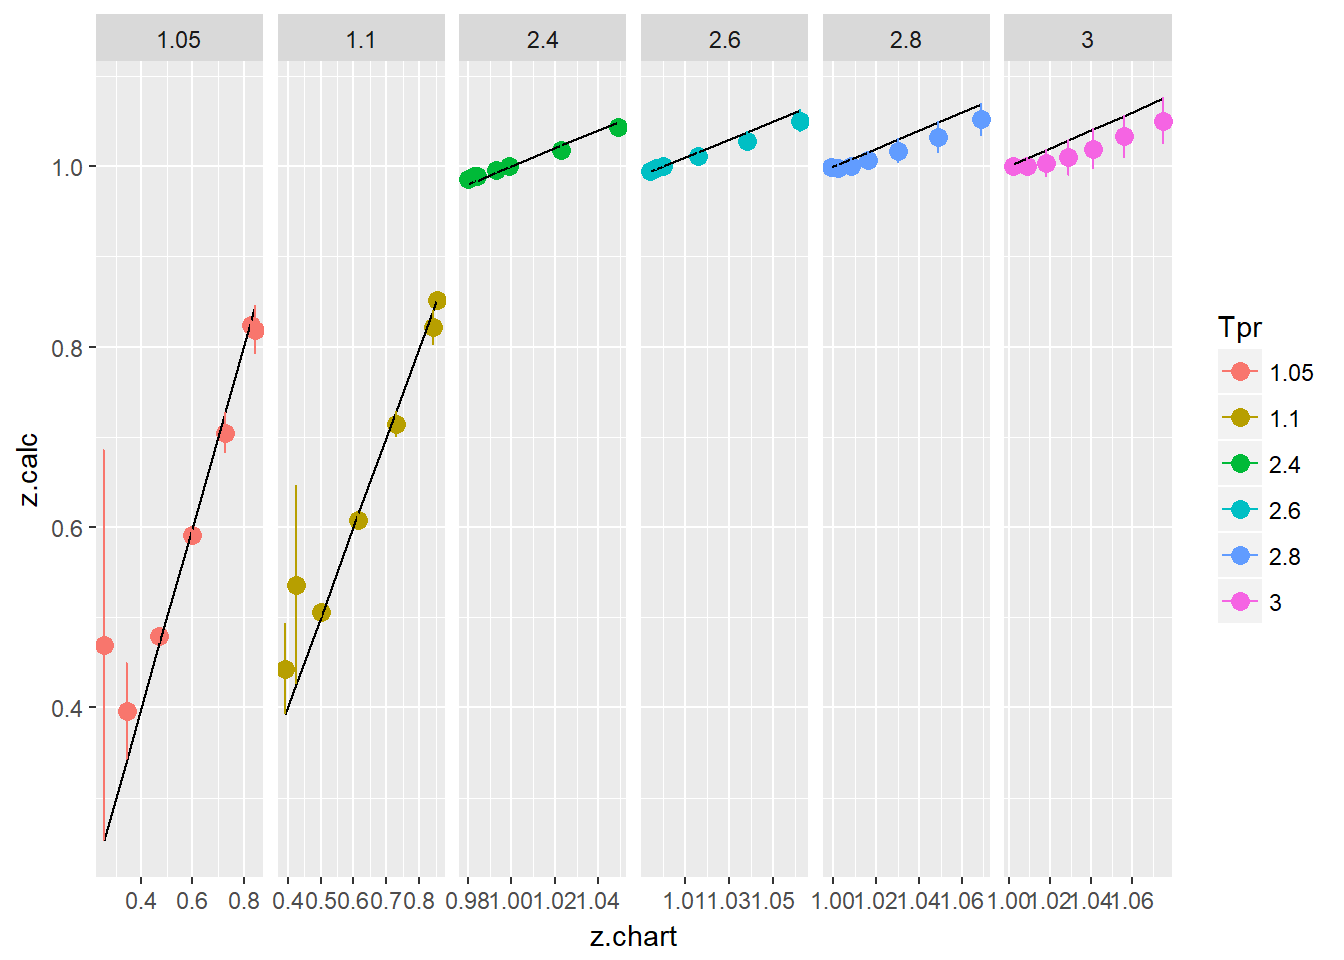
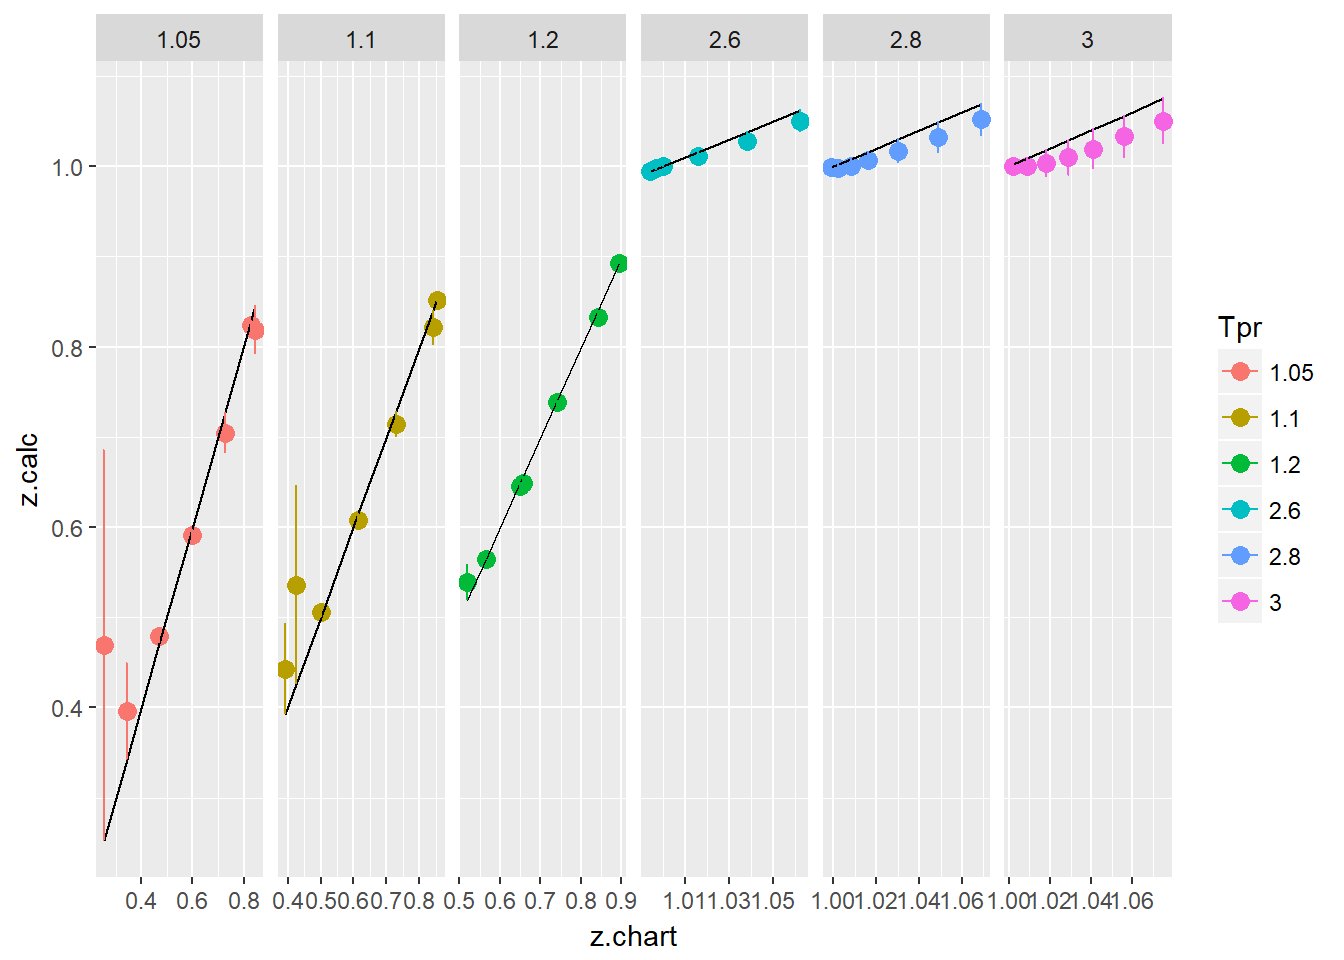
pkgdown site

diff --git a/docs/index.html b/docs/index.html
@@ -139,7 +139,7 @@
 <li><p>Dranchuk, Purvis and Robinson (DPR) <code>(Dranchuk, Purvis, Robinson, and others, 1973)</code></p></li>
 <li><p>A correlation by Shell Oil Company (SH) <code>(Kumar, 2004)</code>, <code>(Bahadori, 2016)</code>, <code>(de Almeida, VelÃ¡squez, and Barbieri, 2014)</code>, <code>(Al-Anazi, Pazuki, Nikookar, and Al-Anazi, 2011)</code>, <code>(Azizi N. Behbahani R., 2010)</code>, <code>(Mohamadi-Baghmolaei, Azin, Osfouri, Mohamadi-Baghmolaei, and Zarei, 2015)</code>. The Shell correlation was found cited in two books and several papers (including the equation and constants), but the original paper or authors could not be identified.</p></li>
 <li><p>A correlation developed with Artificial Neural Networks (Ann10) by Kamyab et al. <code>(Kamyab, Sampaio, Qanbari, and Eustes, 2010)</code></p></li>
-<li><p>An explicit correlation by <em>I. Papp</em> <code>(Papp, 1979)</code> mentioned in the comparative analysis paper by Gabor Takacs <code>(Takacs, 1989)</code>. Not available in English.</p></li>
+<li><p>An explicit correlation by <em>I. Papp</em> <code>(Papp, 1979)</code> mentioned in the comparative analysis paper by Gabor Takacs <code>(Takacs, 1989)</code>. Papp’s paper is not available in English.</p></li>
 </ul>
 </div>
 <div id="versions" class="section level2">
@@ -452,7 +452,7 @@ smry_tpr_ppr &lt;-<span class="st"> </span><span class="kw">summarise</span>(gro
 <p>[10] M. Mohamadi-Baghmolaei, R. Azin, S. Osfouri, et al. “Prediction of gas compressibility factor using intelligent models”. In: <em>Natural Gas Industry B</em> 2.4 (2015), pp. 283-294. DOI: 10.1016/j.ngib.2015.09.001. &lt;URL: <a href="http://doi.org/10.1016/j.ngib.2015.09.001" class="uri">http://doi.org/10.1016/j.ngib.2015.09.001</a>&gt;.</p>
 <p>[11] I. Papp. “Uj modszer foldgazok elteresi tenyezojenek szamitasara”. In: <em>Koolaj es Foldgaz</em> (Nov. 1979), pp. 345-47.</p>
 <p>[12] S. Rakap, S. Rakap, D. Evran, et al. “Comparative evaluation of the reliability and validity of three data extraction programs: UnGraph, GraphClick, and DigitizeIt”. In: <em>Computers in Human Behavior</em> 55 (2016), pp. 159-166. DOI: 10.1016/j.chb.2015.09.008. &lt;URL: <a href="http://doi.org/10.1016/j.chb.2015.09.008" class="uri">http://doi.org/10.1016/j.chb.2015.09.008</a>&gt;.</p>
-<p>[13] G. Takacs. “Comparing Methods for Calculating z Factor”. In: <em>Oil and Gas Journal</em> (May. 1989). DOI: NA. &lt;URL: <a href="https://www.researchgate.net/publication/236510717_Comparing_methods_for_calculating_Z-factor" class="uri">https://www.researchgate.net/publication/236510717_Comparing_methods_for_calculating_Z-factor</a>&gt;.</p>
+<p>[13] G. Takacs. “Comparing Methods for Calculating z Factor”. In: <em>Oil and Gas Journal</em> (May. 1989). DOI: Not Available. &lt;URL: <a href="https://www.researchgate.net/publication/236510717_Comparing_methods_for_calculating_Z-factor" class="uri">https://www.researchgate.net/publication/236510717_Comparing_methods_for_calculating_Z-factor</a>&gt;.</p>
 </div>
 </div>
 </div>

diff --git a/docs/articles/Papp.html b/docs/articles/Papp.html
@@ -113,7 +113,7 @@
     <div class="page-header toc-ignore">
       <h1>Papp correlation</h1>
             
-            <h4 class="date">2017-10-23</h4>
+            <h4 class="date">2017-10-24</h4>
           </div>
 
     
@@ -459,7 +459,7 @@ smry_tpr_ppr &lt;-<span class="st"> </span><span class="kw">summarise</span>(gro
 <div class="sourceCode"><pre class="sourceCode r"><code class="sourceCode r"><span class="kw">library</span>(dplyr)
 
 sk_corr_all <span class="op">%&gt;%</span>
-<span class="st">    </span><span class="kw">filter</span>(Tpr <span class="op">%in%</span><span class="st"> </span><span class="kw">c</span>(<span class="st">"1.05"</span>, <span class="st">"1.1"</span>, <span class="st">"2.4"</span>, <span class="st">"2.6"</span>, <span class="st">"2.8"</span>, <span class="st">"3"</span>)) <span class="op">%&gt;%</span>
+<span class="st">    </span><span class="kw">filter</span>(Tpr <span class="op">%in%</span><span class="st"> </span><span class="kw">c</span>(<span class="st">"1.05"</span>, <span class="st">"1.1"</span>, <span class="st">"1.2"</span>, <span class="st">"2.6"</span>, <span class="st">"2.8"</span>, <span class="st">"3"</span>)) <span class="op">%&gt;%</span>
 <span class="st">    </span><span class="kw">ggplot</span>(<span class="kw">aes</span>(<span class="dt">x =</span> z.chart, <span class="dt">y=</span>z.calc, <span class="dt">group =</span> Tpr, <span class="dt">color =</span> Tpr)) <span class="op">+</span>
 <span class="st">    </span><span class="kw">geom_point</span>(<span class="dt">size =</span> <span class="dv">3</span>) <span class="op">+</span>
 <span class="st">    </span><span class="kw">geom_line</span>(<span class="kw">aes</span>(<span class="dt">x =</span> z.chart, <span class="dt">y =</span> z.chart), <span class="dt">color =</span> <span class="st">"black"</span>) <span class="op">+</span>
@@ -496,7 +496,7 @@ sk_corr_all <span class="op">%&gt;%</span>
 <h2 class="hasAnchor">
 <a href="#references" class="anchor"></a>References</h2>
 <p>[1] I. Papp. “Uj modszer foldgazok elteresi tenyezojenek szamitasara”. In: <em>Koolaj es Foldgaz</em> (Nov. 1979), pp. 345-47.</p>
-<p>[2] G. Takacs. “Comparing Methods for Calculating z Factor”. In: <em>Oil and Gas Journal</em> (May. 1989). DOI: NA. &lt;URL: <a href="https://www.researchgate.net/publication/236510717_Comparing_methods_for_calculating_Z-factor" class="uri">https://www.researchgate.net/publication/236510717_Comparing_methods_for_calculating_Z-factor</a>&gt;.</p>
+<p>[2] G. Takacs. “Comparing Methods for Calculating z Factor”. In: <em>Oil and Gas Journal</em> (May. 1989). DOI: Not Available. &lt;URL: <a href="https://www.researchgate.net/publication/236510717_Comparing_methods_for_calculating_Z-factor" class="uri">https://www.researchgate.net/publication/236510717_Comparing_methods_for_calculating_Z-factor</a>&gt;.</p>
 </div>
 </div>
   </div>

diff --git a/docs/articles/Dranchuk-Purvis-Robinson.html b/docs/articles/Dranchuk-Purvis-Robinson.html
@@ -113,7 +113,7 @@
     <div class="page-header toc-ignore">
       <h1>Dranchuk-Purvis-Robinson correlation</h1>
             
-            <h4 class="date">2017-10-23</h4>
+            <h4 class="date">2017-10-24</h4>
           </div>
 
     
@@ -122,7 +122,7 @@
 <div id="why-dpr-is-different" class="section level2">
 <h2 class="hasAnchor">
 <a href="#why-dpr-is-different" class="anchor"></a>Why <code>DPR</code> is different</h2>
-<p>The <code>Dranchuk-Purvis-Robinson</code> correlation is different than the other correlations in the sense that the authors were looking at redrawing three of the isotherms of the original work by Standing-Katz: the curves at <code>Tpr=1.05</code>, <code>Tpr=1.1</code> and <code>Tpr=1.15</code>. The authors were expecting that later the corrections to be adopted with experimental data matching those two new curves. We haven’t found a paper confirming that yet. <span class="citation">(See Dranchuk et al. <a href="#ref-Dranchuk1973">1973</a>)</span>.</p>
+<p>The <code>Dranchuk-Purvis-Robinson</code> correlation is different than the other correlations in the sense that the authors were looking at redrawing three of the isotherms of the original work by Standing-Katz: the curves at <code>Tpr=1.05</code>, <code>Tpr=1.1</code> and <code>Tpr=1.15</code>. The authors were expecting that later the corrections to be adopted with experimental data matching those two new curves. We haven’t found a paper confirming that yet. <span class="citation">(See <span class="citeproc-not-found" data-reference-id="Dranchuk1973"><strong>???</strong></span>)</span>.</p>
 <p>Other than that, the <code>DPR</code> correlation behaves pretty well but not much better than the <code>DAK</code> correlation.</p>
 </div>
 <div id="get-z-at-selected-ppr-and-tpr" class="section level2">
@@ -509,14 +509,9 @@ sk_corr_all <span class="op">%&gt;%</span>
 # ... with 102 more rows, and 3 more variables: RSS &lt;dbl&gt;, MAE &lt;dbl&gt;,
 #   RMLSE &lt;dbl&gt;</code></pre>
 </div>
-<div id="references" class="section level2 unnumbered">
+<div id="references" class="section level2">
 <h2 class="hasAnchor">
 <a href="#references" class="anchor"></a>References</h2>
-<div id="refs" class="references">
-<div id="ref-Dranchuk1973">
-<p>Dranchuk, Peter M, RA Purvis, DB Robinson, and others. 1973. “Computer Calculation of Natural Gas Compressibility Factors Using the Standing and Katz Correlation.” In <em>Annual Technical Meeting</em>, edited by unknown. Petroleum Society of Canada. doi:<a href="https://doi.org/10.2118/73-112">10.2118/73-112</a>.</p>
-</div>
-</div>
 </div>
 </div>
   </div>

diff --git a/docs/articles/Shell.html b/docs/articles/Shell.html
@@ -113,7 +113,7 @@
     <div class="page-header toc-ignore">
       <h1>Shell correlation</h1>
             
-            <h4 class="date">2017-10-23</h4>
+            <h4 class="date">2017-10-24</h4>
           </div>
 
     
@@ -122,7 +122,7 @@
 <div id="shell-correlation" class="section level2">
 <h2 class="hasAnchor">
 <a href="#shell-correlation" class="anchor"></a>Shell correlation</h2>
-<p><span class="citation">(Kumar <a href="#ref-Kumar2004">2004</a>)</span> <span class="citation">(Almeida, Velásquez, and Barbieri <a href="#ref-Almeida2014">2014</a>)</span> <span class="citation">(Azizi N. <a href="#ref-Azizi2010">2010</a>)</span></p>
+<p><span class="citation">(<span class="citeproc-not-found" data-reference-id="Kumar2004"><strong>???</strong></span>)</span> <span class="citation">(<span class="citeproc-not-found" data-reference-id="Almeida2014"><strong>???</strong></span>)</span> <span class="citation">(<span class="citeproc-not-found" data-reference-id="Azizi2010"><strong>???</strong></span>)</span></p>
 </div>
 <div id="get-z-at-selected-ppr-and-tpr" class="section level2">
 <h2 class="hasAnchor">
@@ -490,20 +490,9 @@ sk_corr_all <span class="op">%&gt;%</span>
 # ... with 102 more rows, and 3 more variables: RSS &lt;dbl&gt;, MAE &lt;dbl&gt;,
 #   RMLSE &lt;dbl&gt;</code></pre>
 </div>
-<div id="references" class="section level2 unnumbered">
+<div id="references" class="section level2">
 <h2 class="hasAnchor">
 <a href="#references" class="anchor"></a>References</h2>
-<div id="refs" class="references">
-<div id="ref-Almeida2014">
-<p>Almeida, J. Cézar de, J. A. Velásquez, and R. Barbieri. 2014. “A Methodology for Calculating the Natural Gas Compressibility Factor for a Distribution Network.” <em>Petroleum Science and Technology</em> 32 (21): 2616–24. doi:<a href="https://doi.org/10.1080/10916466.2012.755194">10.1080/10916466.2012.755194</a>.</p>
-</div>
-<div id="ref-Azizi2010">
-<p>Azizi N., Isazadeh M.A., Behbahani R. 2010. “An Efficient Correlation for Calculating Compressibility Factor of Natural Gases.” <em>Journal of Natural Gas Chemistry</em> Volume 19 (Issue 6, 2010,): 642–45. doi:<a href="https://doi.org/10.1016/S1003-9953(09)60081-5">10.1016/S1003-9953(09)60081-5</a>.</p>
-</div>
-<div id="ref-Kumar2004">
-<p>Kumar, Neeraj. 2004. “Compressibility Factors for Natural and Sour Reservoir Gases by Correlations and Cubic Equations of State.” Master’s thesis, Texas Tech University. <a href="https://ttu-ir.tdl.org/ttu-ir/handle/2346/1370" class="uri">https://ttu-ir.tdl.org/ttu-ir/handle/2346/1370</a>.</p>
-</div>
-</div>
 </div>
 </div>
   </div>

diff --git a/docs/articles/Hall-Yarborough.html b/docs/articles/Hall-Yarborough.html
@@ -113,7 +113,7 @@
     <div class="page-header toc-ignore">
       <h1>Hall-Yarborough correlation</h1>
             
-            <h4 class="date">2017-10-23</h4>
+            <h4 class="date">2017-10-24</h4>
           </div>
 
     
@@ -122,7 +122,7 @@
 <div id="the-hall-yarborough-correlation" class="section level2">
 <h2 class="hasAnchor">
 <a href="#the-hall-yarborough-correlation" class="anchor"></a>The Hall-Yarborough correlation</h2>
-<p>Kenneth Hall and Lyman Yarborough used the hard-sphere equation as the basis for the equation of state. They tested the correlation with 12 reservoir gas reservoir systems up to <code>Ppr</code> as high as 20.5. The Standing-Katz chart only extends to <code>Ppr=15</code>. At that moment the Standing-Katz chart had 30 years of existance. See <span class="citation">(Hall and Yarborough <a href="#ref-Hall1973">1973</a>)</span>.</p>
+<p>Kenneth Hall and Lyman Yarborough used the hard-sphere equation as the basis for the equation of state. They tested the correlation with 12 reservoir gas reservoir systems up to <code>Ppr</code> as high as 20.5. The Standing-Katz chart only extends to <code>Ppr=15</code>. At that moment the Standing-Katz chart had 30 years of existance. See <span class="citation">(<span class="citeproc-not-found" data-reference-id="Hall1973"><strong>???</strong></span>)</span>.</p>
 </div>
 <div id="get-z-at-selected-ppr-and-tpr2-0" class="section level2">
 <h2 class="hasAnchor">
@@ -491,14 +491,9 @@ hy &lt;-<span class="st"> </span><span class="kw">sapply</span>(ppr, <span class
 1.7 0.9682547 0.9134862 0.8756412 0.8605668 0.8694525 0.8978885 0.9396353
 2   0.9838234 0.9580002 0.9426939 0.9396286 0.9490995 0.9697839 0.9994317</code></pre>
 </div>
-<div id="references" class="section level2 unnumbered">
+<div id="references" class="section level2">
 <h2 class="hasAnchor">
 <a href="#references" class="anchor"></a>References</h2>
-<div id="refs" class="references">
-<div id="ref-Hall1973">
-<p>Hall, Kenneth R, and Lyman Yarborough. 1973. “A New Equation of State for Z-Factor Calculations.” <em>Oil and Gas Journal</em> 71 (7): 82–92.</p>
-</div>
-</div>
 </div>
 </div>
   </div>

diff --git a/docs/articles/Dranchuk-AbouKassem.html b/docs/articles/Dranchuk-AbouKassem.html
@@ -113,7 +113,7 @@
     <div class="page-header toc-ignore">
       <h1>Dranchuk-AbouKassem correlation</h1>
             
-            <h4 class="date">2017-10-23</h4>
+            <h4 class="date">2017-10-24</h4>
           </div>
 
     
@@ -122,7 +122,7 @@
 <div id="the-dak-correlation" class="section level2">
 <h2 class="hasAnchor">
 <a href="#the-dak-correlation" class="anchor"></a>The <code>DAK</code> correlation</h2>
-<p>The work by P.M. Dranchuk and J.H. Abou-Kassem was looking to examine <code>z</code> outside the regions established by the Standing-Katz chart. They used as a basis the generalized Starling equation of state. They provided the code in FORTRAN. See <span class="citation">(Dranchuk and Abou-Kassem <a href="#ref-Dranchuk1975">1975</a>)</span></p>
+<p>The work by P.M. Dranchuk and J.H. Abou-Kassem was looking to examine <code>z</code> outside the regions established by the Standing-Katz chart. They used as a basis the generalized Starling equation of state. They provided the code in FORTRAN. See <span class="citation">(<span class="citeproc-not-found" data-reference-id="Dranchuk1975"><strong>???</strong></span>)</span></p>
 </div>
 <div id="get-z-at-selected-ppr-and-tpr" class="section level2">
 <h2 class="hasAnchor">
@@ -512,14 +512,9 @@ sk_corr_all <span class="op">%&gt;%</span>
 10   1.1   2.5 0.019519996  4.9669201  4.9669201 3.810302e-04 3.810302e-04
 # ... with 102 more rows, and 2 more variables: MAE &lt;dbl&gt;, RMLSE &lt;dbl&gt;</code></pre>
 </div>
-<div id="references" class="section level2 unnumbered">
+<div id="references" class="section level2">
 <h2 class="hasAnchor">
 <a href="#references" class="anchor"></a>References</h2>
-<div id="refs" class="references">
-<div id="ref-Dranchuk1975">
-<p>Dranchuk, P. M., and H. Abou-Kassem. 1975. “Calculation of Z Factors for Natural Gases Using Equations of State.” <em>Journal of Canadian Petroleum Technology</em>, July. Petroleum Society of Canada. doi:<a href="https://doi.org/10.2118/75-03-03">10.2118/75-03-03</a>.</p>
-</div>
-</div>
 </div>
 </div>
   </div>

diff --git a/docs/articles/Ann10.html b/docs/articles/Ann10.html
@@ -113,7 +113,7 @@
     <div class="page-header toc-ignore">
       <h1>Artificial Neural Network correlation</h1>
             
-            <h4 class="date">2017-10-23</h4>
+            <h4 class="date">2017-10-24</h4>
           </div>
 
     
@@ -122,7 +122,7 @@
 <div id="how-do-we-find-the-limits-of-accuracy-in-the-ann10-correlation" class="section level2">
 <h2 class="hasAnchor">
 <a href="#how-do-we-find-the-limits-of-accuracy-in-the-ann10-correlation" class="anchor"></a>How do we find the limits of accuracy in the <code>ANN10</code> correlation</h2>
-<p><span class="citation">(Kamyab et al. <a href="#ref-Kamyab2010">2010</a>)</span></p>
+<p><span class="citation">(<span class="citeproc-not-found" data-reference-id="Kamyab2010"><strong>???</strong></span>)</span></p>
 </div>
 <div id="get-z-at-selected-ppr-and-tpr" class="section level2">
 <h2 class="hasAnchor">
@@ -487,14 +487,9 @@ sk_corr_all <span class="op">%&gt;%</span>
 # ... with 102 more rows, and 3 more variables: RSS &lt;dbl&gt;, MAE &lt;dbl&gt;,
 #   RMLSE &lt;dbl&gt;</code></pre>
 </div>
-<div id="references" class="section level2 unnumbered">
+<div id="references" class="section level2">
 <h2 class="hasAnchor">
 <a href="#references" class="anchor"></a>References</h2>
-<div id="refs" class="references">
-<div id="ref-Kamyab2010">
-<p>Kamyab, Mohammadreza, Jorge HB Sampaio, Farhad Qanbari, and Alfred W Eustes. 2010. “Using Artificial Neural Networks to Estimate the Z-Factor for Natural Hydrocarbon Gases.” <em>Journal of Petroleum Science and Engineering</em> 73 (3). Elsevier: 248–57. doi:<a href="https://doi.org/10.1016/j.petrol.2010.07.006">10.1016/j.petrol.2010.07.006</a>.</p>
-</div>
-</div>
 </div>
 </div>
   </div>

diff --git a/docs/news/index.html b/docs/news/index.html
@@ -142,8 +142,11 @@
     <div id="section" class="section level2">
 <h2 class="hasAnchor">
 <a href="#section" class="anchor"></a>20171023 0.1.7.9000</h2>
-<ul><li>
-</li></ul>
+<ul>
+<li>add title to VignetteIndexEntry in statistics.Rmd. Preventing link to work in GitHub pages.</li>
+<li>edit bibliography.bib with JabRef application. ./vignettes/bibliography.bib is a symbolic link of same file under ./inst/doc</li>
+<li>Takacs was added entry for local PDF file in bibliography.bib</li>
+</ul>
 </div>
     <div id="section-1" class="section level2">
 <h2 class="hasAnchor">

diff --git a/docs/articles/Plot_StandingKatz_lp.html b/docs/articles/Plot_StandingKatz_lp.html
@@ -113,7 +113,7 @@
     <div class="page-header toc-ignore">
       <h1>Plot Standing-Katz low-pressure <code>lp</code> charts</h1>
             
-            <h4 class="date">2017-10-23</h4>
+            <h4 class="date">2017-10-24</h4>
           </div>
 
     

diff --git a/docs/articles/statistics.html b/docs/articles/statistics.html
@@ -113,7 +113,7 @@
     <div class="page-header toc-ignore">
       <h1>Measuring the error in calculating z</h1>
             
-            <h4 class="date">2017-10-23</h4>
+            <h4 class="date">2017-10-24</h4>
           </div>
 
     

diff --git a/docs/articles/correlation_selection.html b/docs/articles/correlation_selection.html
@@ -113,7 +113,7 @@
     <div class="page-header toc-ignore">
       <h1>Selecting the Best Correlation</h1>
             
-            <h4 class="date">2017-10-23</h4>
+            <h4 class="date">2017-10-24</h4>
           </div>
 
     

diff --git a/docs/articles/StandingKatz_chart.html b/docs/articles/StandingKatz_chart.html
@@ -113,7 +113,7 @@
     <div class="page-header toc-ignore">
       <h1>Standing-Katz chart data</h1>
             
-            <h4 class="date">2017-10-23</h4>
+            <h4 class="date">2017-10-24</h4>
           </div>
 
     
